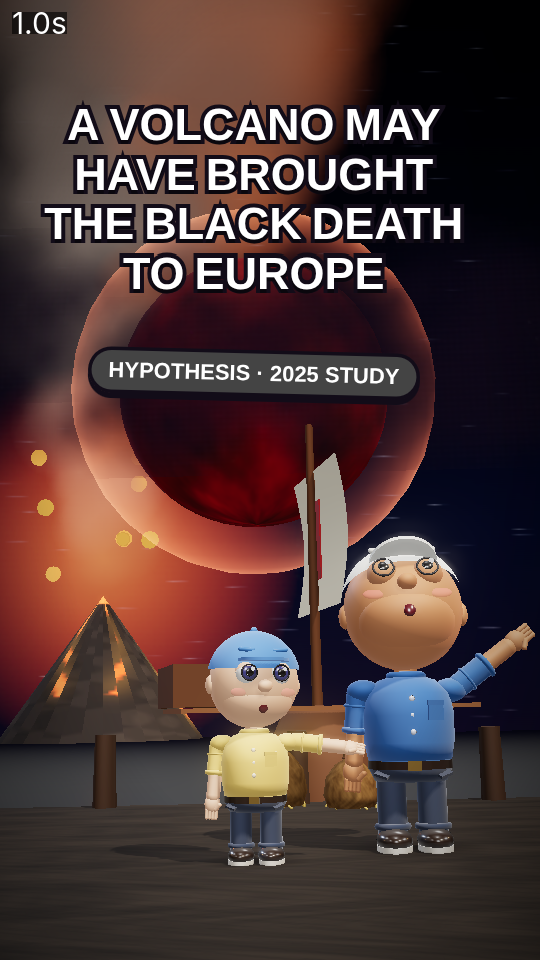
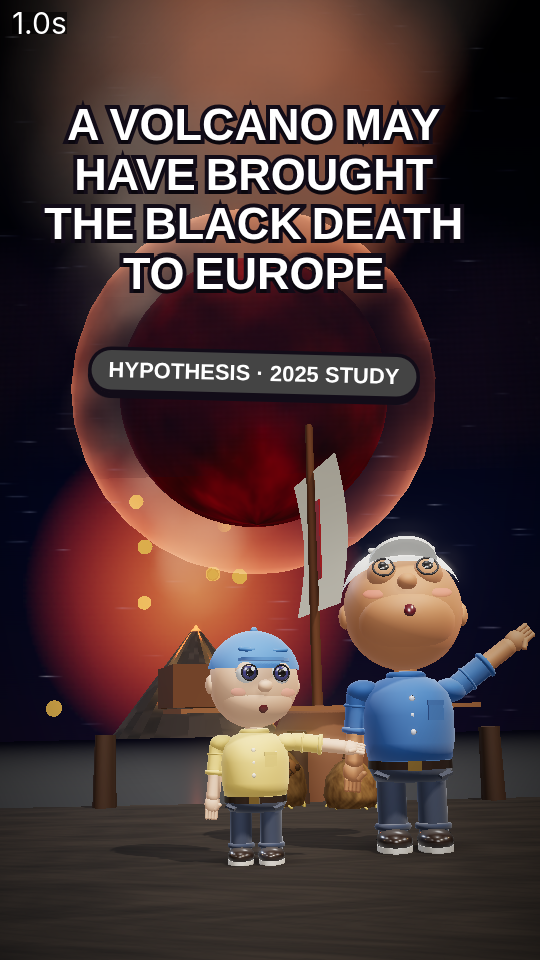
round 8 prep: instant loop end card + capUntil, timeline turns red in shot, volcano on far horizon, pack shows first vs last frame
Claude-Session: https://claude.ai/code/session_0152u2ZqYpLGAPScN5Bx2Q87

diff --git a/.claude/skills/3d-story-shorts/template/scene.js b/.claude/skills/3d-story-shorts/template/scene.js
@@ -303,7 +303,7 @@ let capKey = '';
 function drawCaptions(shot, t) {
   // search every shot: a word that starts just before a cut keeps its caption across the cut
   let g = null; for (const sh of story.shots) { g = groupsFor(sh).find(x => t >= x.t0 && t < x.t1); if (g) { shot = sh; break; } }
-  if (g && shot.capFrom !== undefined && t < shot.capFrom) g = null; // hold captions while a title is read alone
+  if (g && ((shot.capFrom !== undefined && t < shot.capFrom) || (shot.capUntil !== undefined && t >= shot.capUntil))) g = null; // hold captions while a title is read alone
   if (!g) { if (capKey) { capEl.innerHTML = ''; capKey = ''; } return; }
   capEl.style.bottom = (shot.capBottom ?? 27) + '%'; // per-shot caption height: keep faces clear (render.mjs --verify reports covered faces)
   const key = shot.start + ':' + g.t0;
@@ -348,7 +348,7 @@ const fmt = (n) => Math.round(n).toLocaleString('en-US');
 function drawOverlays(t) {
   for (const { o, el } of ovEls) {
     const on = t >= o.t0 && t < o.t1; el.style.opacity = on ? 1 : 0; if (!on) continue;
-    const lt = t - o.t0, out = clamp01((t - (o.t1 - 0.25)) / 0.25);
+    const lt = o.instant ? 99 : t - o.t0, out = clamp01((t - (o.t1 - 0.25)) / 0.25); // instant: shown fully drawn (e.g. the loop frame = frame 0)
     el.style.transform = `translateY(${-out * 60}px)`; el.style.opacity = 1 - out;
     if (o.type === 'title') el.querySelectorAll('.w').forEach((w, i) => { const k = spring(lt - i * 0.07); w.style.transform = `translateY(${(1 - k) * 110}%)`; });
     else if (o.type === 'counter') {

diff --git a/videos/volcano-plague/scene.js b/videos/volcano-plague/scene.js
@@ -303,7 +303,7 @@ let capKey = '';
 function drawCaptions(shot, t) {
   // search every shot: a word that starts just before a cut keeps its caption across the cut
   let g = null; for (const sh of story.shots) { g = groupsFor(sh).find(x => t >= x.t0 && t < x.t1); if (g) { shot = sh; break; } }
-  if (g && shot.capFrom !== undefined && t < shot.capFrom) g = null; // hold captions while a title is read alone
+  if (g && ((shot.capFrom !== undefined && t < shot.capFrom) || (shot.capUntil !== undefined && t >= shot.capUntil))) g = null; // hold captions while a title is read alone
   if (!g) { if (capKey) { capEl.innerHTML = ''; capKey = ''; } return; }
   capEl.style.bottom = (shot.capBottom ?? 27) + '%'; // per-shot caption height: keep faces clear (render.mjs --verify reports covered faces)
   const key = shot.start + ':' + g.t0;
@@ -348,7 +348,7 @@ const fmt = (n) => Math.round(n).toLocaleString('en-US');
 function drawOverlays(t) {
   for (const { o, el } of ovEls) {
     const on = t >= o.t0 && t < o.t1; el.style.opacity = on ? 1 : 0; if (!on) continue;
-    const lt = t - o.t0, out = clamp01((t - (o.t1 - 0.25)) / 0.25);
+    const lt = o.instant ? 99 : t - o.t0, out = clamp01((t - (o.t1 - 0.25)) / 0.25); // instant: shown fully drawn (e.g. the loop frame = frame 0)
     el.style.transform = `translateY(${-out * 60}px)`; el.style.opacity = 1 - out;
     if (o.type === 'title') el.querySelectorAll('.w').forEach((w, i) => { const k = spring(lt - i * 0.07); w.style.transform = `translateY(${(1 - k) * 110}%)`; });
     else if (o.type === 'counter') {

diff --git a/videos/volcano-plague/tools/make_story.py b/videos/volcano-plague/tools/make_story.py
@@ -25,7 +25,7 @@ CAST = {
 def ch(name, pos, anim, **k): return dict(cast=name, pos=pos, anim=anim, **k)
 E = lambda **k: {**dict(type="earth", size=[3], pos=[0, 0, 0], spin=0.15, barren=False), **k}
 MOON = lambda **k: {**dict(type="moon", size=[12], pos=[-1.5, 15, -34], dark=False), **k}
-PLUME = lambda **k: {**dict(type="volcano", size=[34, 24], pos=[-13.0, -3.0, -60], erupt=-20, loopPlume=True, big=True), **k}
+PLUME = lambda **k: {**dict(type="volcano", size=[40, 26], pos=[-9.0, -4.0, -85], erupt=-20, loopPlume=True, big=True), **k}
 SHIP = lambda **k: {**dict(type="ship", size=[4.5], pos=[2.9, -0.3, -3.6], rot=[0, 0.25, 0], cross=True), **k}
 
 # one shot per spoken line (21 lines), cut a hair before each line
@@ -34,11 +34,11 @@ SPLIT12 = round(wt("venice", lt(12)[0]) - 0.1, 2)
 SPLIT13 = round(wt("problem", lt(13)[0]) - 0.05, 2)
 s = lambda i: b[i - 1]; e = lambda i: b[i]   # shot i start / end
 
-SACKS1 = [dict(type="sack", size=[0.5], pos=[-0.2, 0.25, 1.4]), dict(type="sack", size=[0.42], pos=[0.45, 0.21, 1.2])]
+SACKS1 = [dict(type="sack", size=[0.5], pos=[-0.2, 0.25, 1.4]), dict(type="sack", size=[0.42], pos=[0.45, 0.21, 1.2])] + [dict(type="flea", pos=[x, y, z], scale=0.9, hop=dict(h=0.15, speed=1.7 + 0.3 * k, phase=0.3 * k, dx=0.0)) for k, (x, y, z) in enumerate([(-0.25, 0.55, 1.62), (-0.1, 0.45, 1.65)])]
 SH = [
  # 1 hook: red eclipsed Moon over the harbour, grain ship, the claim on frame 0
  dict(world="harbour", characters=[ch("bo", [-0.3, 0, 2.8], "point", expr="wow", wander=False), ch("tomas", [0.85, 0, 2.3], "lookup", expr="wow", wander=False)],
-      props=[MOON(), SHIP(pos=[0.3, -0.3, -4.2]), PLUME(), dict(type="sack", size=[0.5], pos=[-0.2, 0.25, 1.4]), dict(type="sack", size=[0.42], pos=[0.45, 0.21, 1.2])], camera={"from": [0, 1.0, 10.6], "to": [0, 1.2, 8.4], "look": [-0.4, 5.6, -10]}, energy=1, shimmer=True,
+      props=[MOON(), SHIP(pos=[0.3, -0.3, -4.2]), PLUME(), *SACKS1], camera={"from": [0, 1.0, 10.6], "to": [0, 1.2, 8.4], "look": [-0.4, 5.6, -10]}, energy=1, shimmer=True,
       capFrom=e(1), overlays=[dict(type="title", text="A VOLCANO MAY HAVE BROUGHT THE BLACK DEATH TO EUROPE", t0=-1.5, t1=e(1) + 0.2, y=200, size=90),
                 dict(type="badge", text="HYPOTHESIS · 2025 STUDY", t0=-1.5, t1=e(1), y=700, size=44, accent="#444444")]),
  # 2 you've never heard of it: an unknown eruption somewhere in the tropics
@@ -93,7 +93,7 @@ SH = [
       overlays=[dict(type="badge", text="CROPS COULD HAVE FAILED", t0=s(11) + 0.2, t1=e(11), y=330, size=50, accent="#8a6a2a")]),
  # 12 1347: Venice, Genoa and Pisa import Black Sea grain (map, routes draw on)
  dict(world="studio", props=[dict(type="map", size=[7.5], pos=[0, 0, 0], view=[4, 42],
-        cities=[dict(id="tana", t0=s(12)), dict(id="venice", t0=wt("venice", lt(12)[0])), dict(id="genoa", t0=wt("genoa", lt(12)[0])), dict(id="pisa", t0=wt("pisa", lt(12)[0]))],
+        cities=[dict(id="tana", t0=s(12), label=False), dict(id="venice", t0=wt("venice", lt(12)[0])), dict(id="genoa", t0=wt("genoa", lt(12)[0])), dict(id="pisa", t0=wt("pisa", lt(12)[0]))],
         labelSize=48, routes=[dict(to="venice", t0=s(12) + 0.2, t1=e(12) - 0.2), dict(to="genoa", t0=s(12) + 0.6, t1=e(12) - 0.1), dict(to="pisa", t0=s(12) + 1.0, t1=e(12))])],
       camera={"from": [0, 0, 14.5], "to": [0, 0, 13.2], "look": [0, 0, 0]}, energy=2,
       overlays=[dict(type="counter", **{"from": 1347}, to=1347, roll=False, size=120, label="GRAIN FROM THE BLACK SEA", t0=s(12) + 0.2, t1=s(12) + 2.4, y=300)]),
@@ -101,7 +101,7 @@ SH = [
  dict(world="studio", props=[dict(type="map", size=[7.5], pos=[0, 0, 0], view=[4, 42], labelSize=48,
         cities=[dict(id="tana"), dict(id="venice", t0=wt("venice", lt(12)[0])), dict(id="genoa", t0=wt("genoa", lt(12)[0])), dict(id="pisa", t0=wt("pisa", lt(12)[0]))],
         routes=[dict(to="venice", t0=s(12) + 0.2, t1=e(12) + 0.6), dict(to="genoa", t0=s(12) + 0.6, t1=e(12) + 0.8), dict(to="pisa", t0=s(12) + 1.0, t1=e(12) + 1.0)])],
-      camera={"from": [0.6, -0.2, 6.0], "to": [-2.2, 0.5, 4.6], "look": [-2.3, 0.6, 0]}, energy=2),
+      camera={"from": [0.6, -0.2, 6.0], "to": [-2.05, 0.5, 4.9], "look": [-2.1, 0.6, 0]}, energy=2),
  # 13 food for the hungry: sacks come ashore, people cheer
  dict(world="harbourday", characters=[ch("tomas", [-1.2, 0, 1.0], "throw", expr="grin"), ch("bo", [0.1, 0, -1.6], "cheer", expr="grin", wander=False), ch("mara", [1.2, 0, 1.0], "cheer", expr="grin")],
       props=[SHIP(pos=[0.4, -0.3, -6.5], size=[4.5])] + [dict(type="sack", size=[0.55], pos=[x, 0.3, z]) for x, z in [(-2.2, 0.2), (-1.8, -0.4), (2.0, 0.0), (2.4, -0.5), (0, -1.2)]],
@@ -113,14 +113,14 @@ SH = [
  # 14 less than two months after the last grain ships (night harbour, the ship sails away)
  dict(world="harbour", characters=[], props=[SHIP(pos=[0.4, -0.3, -5.0], move=[9, -0.3, -7.0], size=[4.5]), dict(type="houses", size=[11], n=6, pos=[0, 0, -9], dark=dict(t0=s(14) + 1.6, t1=e(14) + 0.6), shutters=True)] + [dict(type="sack", size=[0.55], pos=[x, 0.3, z]) for x, z in [(-1.6, 1.0), (1.5, 0.8)]],
       camera={"from": [0, 2.2, 9.6], "to": [0, 2.0, 8.4], "look": [0, 1.6, -2]},
-      overlays=[dict(type="timeline", text="< 2 MONTHS", left="LAST SHIP", right="VENICE: PLAGUE", labelSize=60, fill=1.6, t0=s(14) + 0.9, t1=e(14), y=250, size=110)]),
+      overlays=[dict(type="timeline", text="< 2 MONTHS", left="LAST SHIP", right="VENICE: PLAGUE", labelSize=60, fill=1.2, t0=s(14) + 0.9, t1=e(14), y=250, size=110)]),
  # 15 the twist as an event: the street goes dark, shutters close, a worried crowd
  dict(world="harbour", characters=[ch("mara", [-1.1, 0, 1.4], "shiver", expr="worried"), ch("tomas", [1.1, 0, 1.2], "lookup", expr="worried")],
       props=[dict(type="houses", size=[11], n=6, pos=[0, 0, -3], dark=dict(t0=s(15) - 0.6, t1=s(15) + 0.8), shutters=True), SHIP(pos=[3.6, -0.3, -6.5])],
       camera={"from": [0, 2.2, 9.2], "to": [0, 2.0, 7.6], "look": [0, 1.8, -2]}, kicks=[wt("venice", lt(15)[0])], drop=True,
       overlays=[dict(type="badge", text="VENICE: FIRST PLAGUE CASES", t0=wt("venice", lt(15)[0]) + 0.1, t1=e(15), y=300, size=54, accent="#c62828")]),
  # 16 fleas in the grain dust (no people)
- dict(world="harbour", props=[dict(type="sack", size=[1.4], pos=[0, 0, 0]), dict(type="rat", pos=[-1.25, 0, 0.75], rot=[0, 0.25, 0], scale=1.5)]
+ dict(world="harbour", props=[dict(type="sack", size=[1.4], pos=[0, 0, 0]), dict(type="rat", pos=[-0.95, 0, 0.8], rot=[0, 0.25, 0], scale=1.5)]
       + [dict(type="flea", pos=[x, y, z], scale=1.3, hop=dict(h=0.3, speed=1.5 + 0.2 * k, phase=0.13 * k, dx=0.0)) for k, (x, y, z) in enumerate([(-0.35, 1.1, 0.45), (0.15, 1.35, 0.4), (0.4, 0.9, 0.55), (-0.15, 0.7, 0.65), (0.6, 0.5, 0.6), (0.3, 1.6, 0.3), (-0.5, 0.5, 0.6), (0.75, 1.2, 0.4), (0.0, 0.3, 0.75)])],
       camera={"from": [0.2, 1.6, 4.6], "to": [0.3, 1.4, 3.9], "look": [0.3, 0.9, 0]}, energy=1,
       overlays=[dict(type="badge", text="MOST LIKELY: FLEAS IN THE GRAIN DUST", t0=s(16) + 0.2, t1=e(16), y=360, size=50, accent="#6b4226")]),
@@ -149,9 +149,9 @@ SH = [
                 dict(type="badge", text="NO: CLOSE IT", t0=s(20) + 0.3, t1=e(20), y=640, size=50, accent="#c62828")]),
  # 21 look at that Moon again -> lands on frame 0
  dict(world="harbour", characters=[ch("bo", [-0.3, 0, 2.8], "point", expr="wow", wander=False), ch("tomas", [0.85, 0, 2.3], "lookup", expr="wow", wander=False)],
-      props=[MOON(), SHIP(pos=[0.3, -0.3, -4.2]), PLUME(), *SACKS1], camera={"from": [0, 1.3, 8.6], "to": [0, 1.0, 10.6], "look": [-0.4, 5.6, -10]}, energy=1,
-      overlays=[dict(type="title", text="A VOLCANO MAY HAVE BROUGHT THE BLACK DEATH TO EUROPE", t0=END - 1.0, t1=END + 1, y=200, size=90),
-                dict(type="badge", text="HYPOTHESIS · 2025 STUDY", t0=END - 1.0, t1=END + 1, y=700, size=44, accent="#444444")]),
+      props=[MOON(), SHIP(pos=[0.3, -0.3, -4.2]), PLUME(), *SACKS1], camera={"from": [0, 1.3, 8.6], "to": [0, 1.0, 10.6], "look": [-0.4, 5.6, -10]}, energy=1, capUntil=END - 1.0,
+      overlays=[dict(type="title", text="A VOLCANO MAY HAVE BROUGHT THE BLACK DEATH TO EUROPE", t0=END - 1.0, t1=END + 1, y=200, size=90, instant=True),
+                dict(type="badge", text="HYPOTHESIS · 2025 STUDY", t0=END - 1.0, t1=END + 1, y=700, size=44, accent="#444444", instant=True)]),
 ]
 b = sorted(b + [SPLIT12, SPLIT13])
 B14 = round(lt(14)[0] - 0.12, 2); b[b.index(B14)] = round(B14 + 0.9, 2)

diff --git a/.claude/skills/video-review/pack.py b/.claude/skills/video-review/pack.py
@@ -69,8 +69,15 @@ def main():
     script = open(script_p, encoding="utf-8").read() if script_p and os.path.exists(script_p) else ""
     if pre:
         frames_from_engine(folder, out); dur = story["shots"][-1]["end"]
+        # the true last frame next to frame 0, so reviewers can check the loop (CRITERIA C7)
+        last = round(dur - 0.02, 2); env = dict(os.environ, SCALE=os.environ.get("SCALE", "0.5"))
+        run(["node", "render.mjs", "--frame", f"0,{last}"], cwd=folder, env=env)
+        a0, a1 = os.path.join(folder, "out", "frame_0.png"), os.path.join(folder, "out", f"frame_{last:g}.png")
+        if os.path.exists(a0) and os.path.exists(a1):
+            run(["ffmpeg", "-v", "error", "-y", "-i", a0, "-i", a1, "-filter_complex", f"hstack,drawtext=text='frame 0  |  last frame {last}s':{FONT}", f"{out}/loop_first_last.png"])
         lufs, peak = loudness(os.path.join(folder, story.get("audio", "voiceover.wav")))
         L = [f"# Review pack (PRE-RENDER): {os.path.basename(os.path.abspath(folder))}", "",
+             "`loop_first_last.png` shows frame 0 beside the true last frame (loop check, CRITERIA C7).", "",
              "**These are stills of the planned video, rendered straight from the scene. Motion between stills is not visible: judge story, framing, text, facts and pacing. The full render happens only after this review.**", "",
              f"- Length: {dur:.1f} s" + ("" if dur > 60 else f"  (under the 61 s Creator Rewards floor by {60.5 - dur:.1f} s)"),
              f"- Voice before mixing: {lufs} LUFS (the final mix is normalised to about -14 LUFS)", ""]

diff --git a/videos/volcano-plague/review_pre/PACK.md b/videos/volcano-plague/review_pre/PACK.md
@@ -1,5 +1,7 @@
 # Review pack (PRE-RENDER): volcano-plague
 
+`loop_first_last.png` shows frame 0 beside the true last frame (loop check, CRITERIA C7).
+
 **These are stills of the planned video, rendered straight from the scene. Motion between stills is not visible: judge story, framing, text, facts and pacing. The full render happens only after this review.**
 
 - Length: 74.4 s
@@ -66,19 +68,19 @@
 
 ## Motion inside long shots (mean picture change start->end; under 0.03 = nearly frozen)
 
-- 0.0-3.9s: 0.093
+- 0.0-3.9s: 0.091
 - 6.4-9.6s: 0.061
 - 9.6-12.6s: 0.089
 - 14.4-17.6s: 0.047
 - 20.3-23.5s: 0.088
 - 25.1-29.4s: 0.067
-- 34.2-38.4s: 0.235
+- 34.2-38.4s: 0.196
 - 44.8-47.8s: 0.070
-- 47.8-51.8s: 0.047
+- 47.8-51.8s: 0.046
 - 51.8-57.3s: 0.088
 - 59.7-64.7s: 0.286
 - 64.7-70.8s: 0.063
-- 70.8-74.4s: 0.089
+- 70.8-74.4s: 0.084
 
 ## Fact list and sources (from script.md)
 
@@ -150,7 +152,7 @@ Re-run once the real story.json exists.
    Round 1 tried the paradox title ("SAVED BY GRAIN. DOOMED BY GRAIN?"); round 2 reviewers found it too
    abstract for frame 0. The grain paradox is line 2 (3.4 s) and the twist at about 42 s.
    Fact-checker + policy (round 4) required "to Europe", not "started".
-2. **Volcano visible in frame 0**: an erupting cone (lava streams, glow, ash column) left of the red Moon.
+2. **Volcano visible in frame 0, far on the horizon** (round 6 fact-check: it was likely tropical, not beside the harbour): an erupting cone with lava streams, glow and ash column, left of the red Moon. The last line says "with a sky like this", not "under a Moon like this".
 3. **Only Venice is red** on the map: fact 8 covers only Venice's first cases. Genoa and Pisa are gold
    (importers, fact 7). Milan and Rome green with "APPARENTLY NO IMPORTS NEEDED AFTER 1345" (fact 10, its hedge and time limit kept).
 4. **Comment question**: "Your city is starving. Grain ships arrive. Nobody knows they carry plague. Open the port?"
@@ -160,6 +162,10 @@ Re-run once the real story.json exists.
 7. **Cartoon style and cast** (Hist, Clim, Mara, Tomas, Bo, folk) are fixed for this channel.
 8. **Doubt line** says "some historians are cautious" (fact 11 wording).
 9. **Text stays in the platform safe zone** (x 65-950, y 115-1536): overlays are laid out in that box and `--verify` fails anything outside.
+10. **Loop**: the last second shows the frame-0 title and badge again over the frame-0 camera, so the last frame equals frame 0.
+11. **Open question title** keeps the hedge: "SOME CITIES MAY HAVE BEEN SPARED. WHY?" from 9.6 s.
+12. **Loop end card** is shown fully drawn (no entrance) from END-1.0 s, captions stop there; last frame = frame 0.
+13. **Volcano distance**: z -85, behind the sea line, small; the glow and ash column carry it. Globe markers sit in the tropical band only.
 
 
 ## Automatic checks

diff --git a/videos/volcano-plague/DECISIONS.md b/videos/volcano-plague/DECISIONS.md
@@ -16,3 +16,5 @@
 9. **Text stays in the platform safe zone** (x 65-950, y 115-1536): overlays are laid out in that box and `--verify` fails anything outside.
 10. **Loop**: the last second shows the frame-0 title and badge again over the frame-0 camera, so the last frame equals frame 0.
 11. **Open question title** keeps the hedge: "SOME CITIES MAY HAVE BEEN SPARED. WHY?" from 9.6 s.
+12. **Loop end card** is shown fully drawn (no entrance) from END-1.0 s, captions stop there; last frame = frame 0.
+13. **Volcano distance**: z -85, behind the sea line, small; the glow and ash column carry it. Globe markers sit in the tropical band only.
